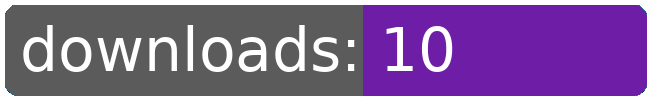
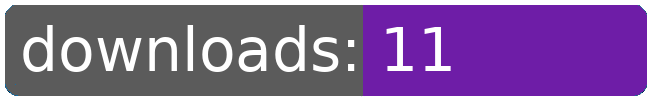
dl log written

Changed region(s): [[0.6462, 0.24, 0.7077, 0.72]]

diff --git a/README.md b/README.md
@@ -32,8 +32,8 @@
 		<td>10</td>
 		<td>10</td>
 		<td>10</td>
-		<td>10</td>
-		<td></td>
+		<td>11</td>
+		<td>+ 1</td>
 	</tr>
 	<tr>
 		<td>better.starts</td>
@@ -76,8 +76,8 @@
 		<td></td>
 		<td></td>
 		<td></td>
-		<td>51</td>
-		<td>0</td>
+		<td>52</td>
+		<td>1</td>
 	</tr>
 </table>
 </sub></sup>
@@ -106,18 +106,18 @@
 		<td></td>
 	</tr>
 	<tr>
-		<td>disable.spaceport.repeatables</td>
+		<td>automata.in.human.space</td>
 		<td>10</td>
 		<td>10</td>
 		<td>10</td>
 		<td>10</td>
 		<td>10</td>
 		<td>10</td>
-		<td>10</td>
-		<td></td>
+		<td>11</td>
+		<td>+ 1</td>
 	</tr>
 	<tr>
-		<td>automata.in.human.space</td>
+		<td>disable.spaceport.repeatables</td>
 		<td>10</td>
 		<td>10</td>
 		<td>10</td>
@@ -157,8 +157,8 @@
 		<td></td>
 		<td></td>
 		<td></td>
-		<td>51</td>
-		<td>0</td>
+		<td>52</td>
+		<td>1</td>
 	</tr>
 </table>
 </sub></sup>
